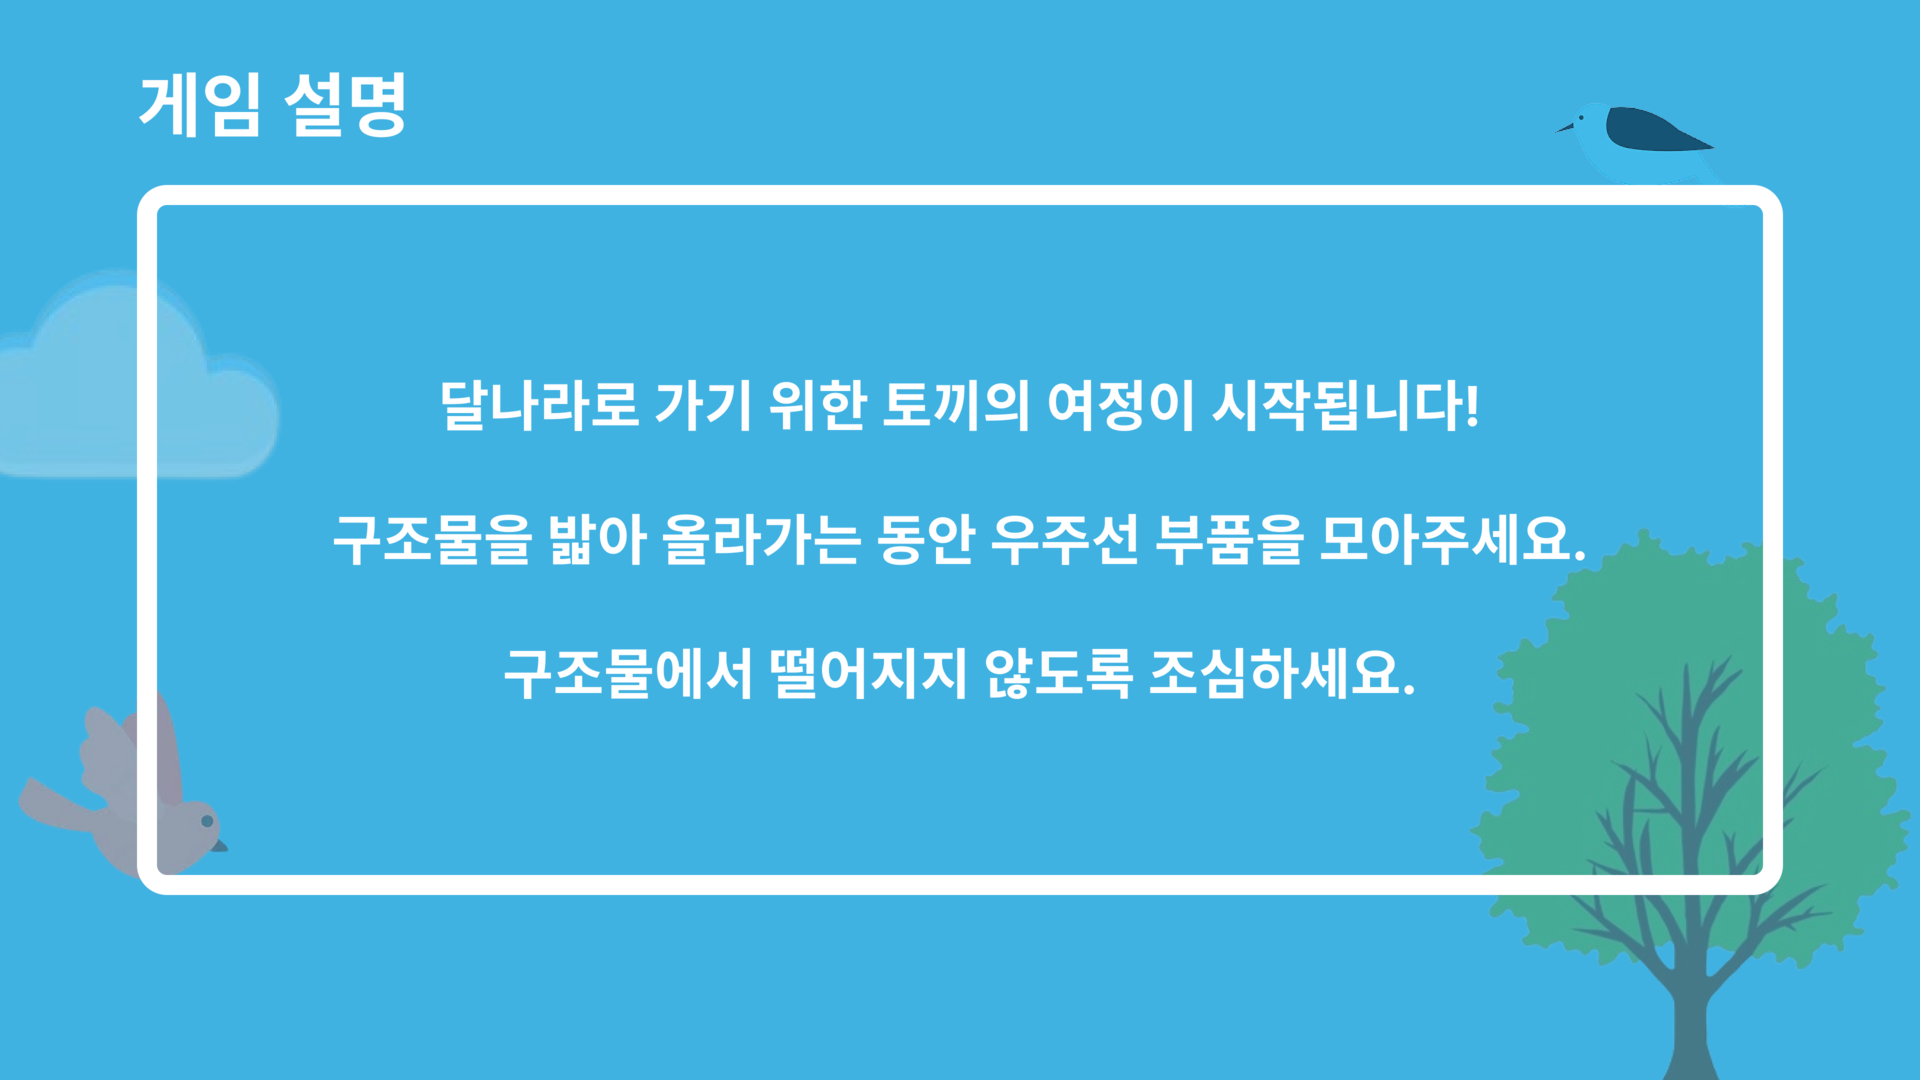
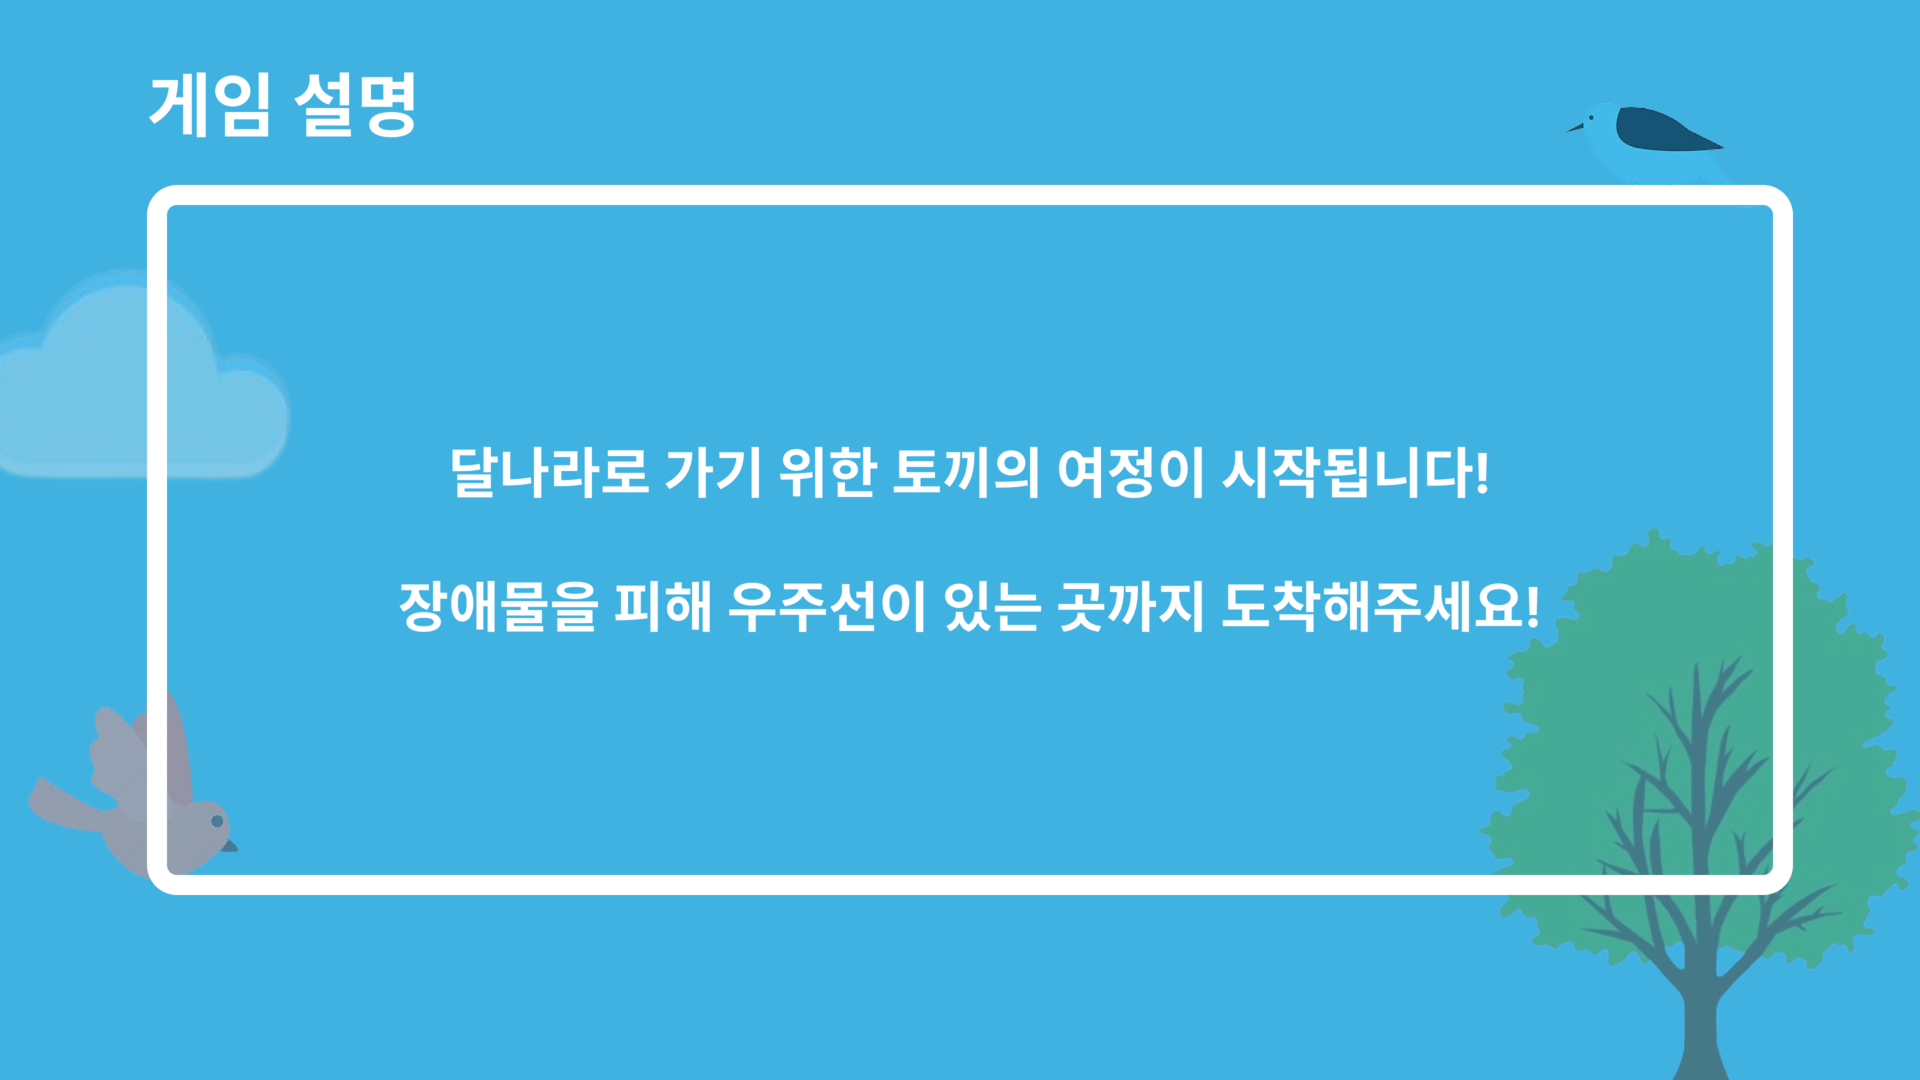
게임 방법 수정

diff --git a/src/EarthRule.java b/src/EarthRule.java
@@ -186,94 +186,6 @@ class EarthRule3 extends JFrame {
     // 배경 이미지
     private Image background = new ImageIcon(ToTheMoon.class.getResource("img/EarthGameRule3.png")).getImage();
 
-    // 다음 버튼
-    private final Image NextButtonImage = new ImageIcon(ToTheMoon.class.getResource("img/Earth_arrow.png")).getImage();
-    private ImageIcon NextButton = new ImageIcon(NextButtonImage);
-
-    private JButton NextJButton = new JButton(NextButton);
-
-    // 이전 버튼
-    private final Image PrevButtonImage = new ImageIcon(ToTheMoon.class.getResource("img/Earth_arrow_reverse.png")).getImage();
-    private ImageIcon PrevButton = new ImageIcon(PrevButtonImage);
-
-    private JButton PrevJButton = new JButton(PrevButton);
-
-    public EarthRule3() {
-        setUndecorated(true);
-        setSize(1920, 1080);
-        setVisible(true);
-        setBackground(new Color(0, 0, 0, 0));
-        setLayout(null);
-        setLocationRelativeTo(null);
-
-        // 다음 버튼 생성
-        NextJButton.setBounds(1691, 925, 167, 111);
-        NextJButton.setBorderPainted(false);
-        NextJButton.setContentAreaFilled(false);
-        NextJButton.setFocusPainted(false);
-        NextJButton.addMouseListener(new MouseAdapter() {
-            @Override
-            public void mouseEntered(MouseEvent e) {
-                setCursor(new Cursor(Cursor.HAND_CURSOR));
-            }
-            @Override
-            public void mouseExited(MouseEvent e) {
-                setCursor(new Cursor(Cursor.DEFAULT_CURSOR));
-            }
-            @Override
-            public void mousePressed(MouseEvent e) {
-                new EarthRule4();
-                setVisible(false);
-            }
-        });
-        add(NextJButton);
-
-        // 이전 버튼 생성
-        PrevJButton.setBounds(62, 925, 167, 111);
-        PrevJButton.setBorderPainted(false);
-        PrevJButton.setContentAreaFilled(false);
-        PrevJButton.setFocusPainted(false);
-        PrevJButton.addMouseListener(new MouseAdapter() {
-            @Override
-            public void mouseEntered(MouseEvent e) {
-                setCursor(new Cursor(Cursor.HAND_CURSOR));
-            }
-            @Override
-            public void mouseExited(MouseEvent e) {
-                setCursor(new Cursor(Cursor.DEFAULT_CURSOR));
-            }
-            @Override
-            public void mousePressed(MouseEvent e) {
-                new EarthRule2();
-                setVisible(false);
-            }
-        });
-        add(PrevJButton);
-    }
-
-    // 그리는 함수
-    public void paint(Graphics g) {
-        GraphicsEnvironment.getLocalGraphicsEnvironment().getDefaultScreenDevice().setFullScreenWindow(null);
-        screenImage = createImage(1920, 1080);
-        screenGraphic = screenImage.getGraphics();
-        screenDraw(screenGraphic);
-        g.drawImage(screenImage, 0, 0, null);	// background를 그려줌
-    }
-
-    public void screenDraw(Graphics g) {
-        g.drawImage(background , 0, 0, null);
-        paintComponents(g);
-        this.repaint();	// paint 함수로 돌아감
-    }
-}
-
-class EarthRule4 extends JFrame {
-    private Image screenImage;
-    private Graphics screenGraphic;
-
-    // 배경 이미지
-    private Image background = new ImageIcon(ToTheMoon.class.getResource("img/EarthGameRule4.png")).getImage();
-
     // 게임 시작 버튼
     private final Image StartButtonImage = new ImageIcon(ToTheMoon.class.getResource("img/Earth_gameStart.png")).getImage();
     private ImageIcon StartButton = new ImageIcon(StartButtonImage);
@@ -286,7 +198,7 @@ class EarthRule4 extends JFrame {
 
     private JButton PrevJButton = new JButton(PrevButton);
 
-    public EarthRule4() {
+    public EarthRule3() {
         setUndecorated(true);
         setSize(1920, 1080);
         setVisible(true);
@@ -332,7 +244,7 @@ class EarthRule4 extends JFrame {
             }
             @Override
             public void mousePressed(MouseEvent e) {
-                new EarthRule3();
+                new EarthRule2();
                 setVisible(false);
             }
         });
